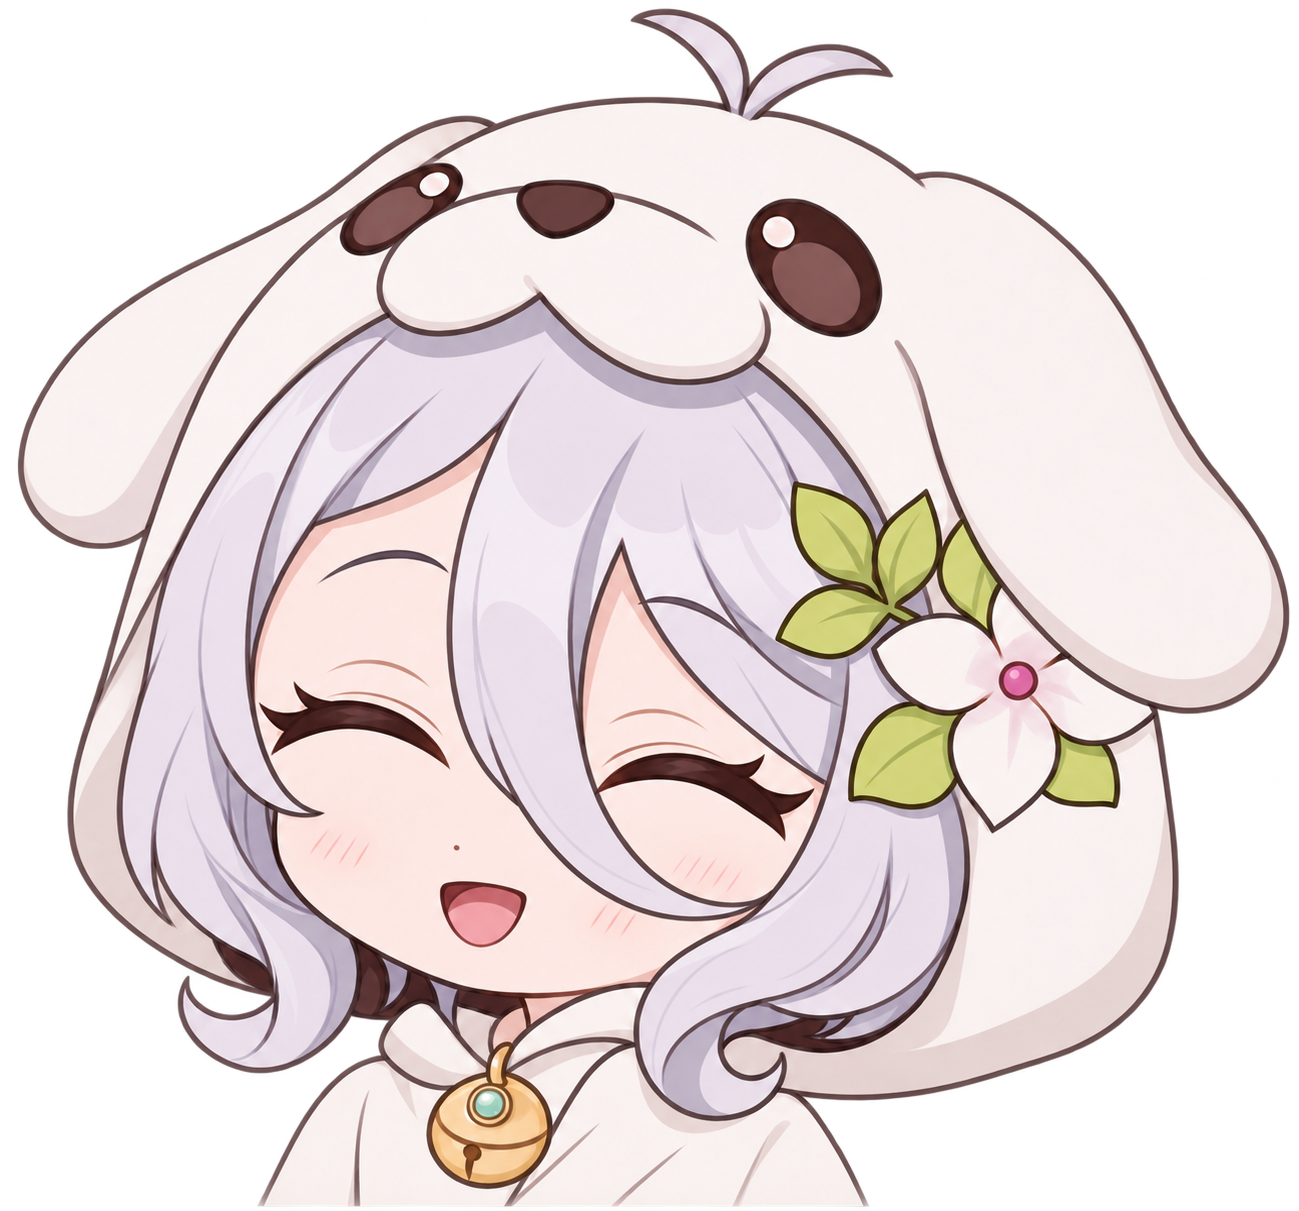
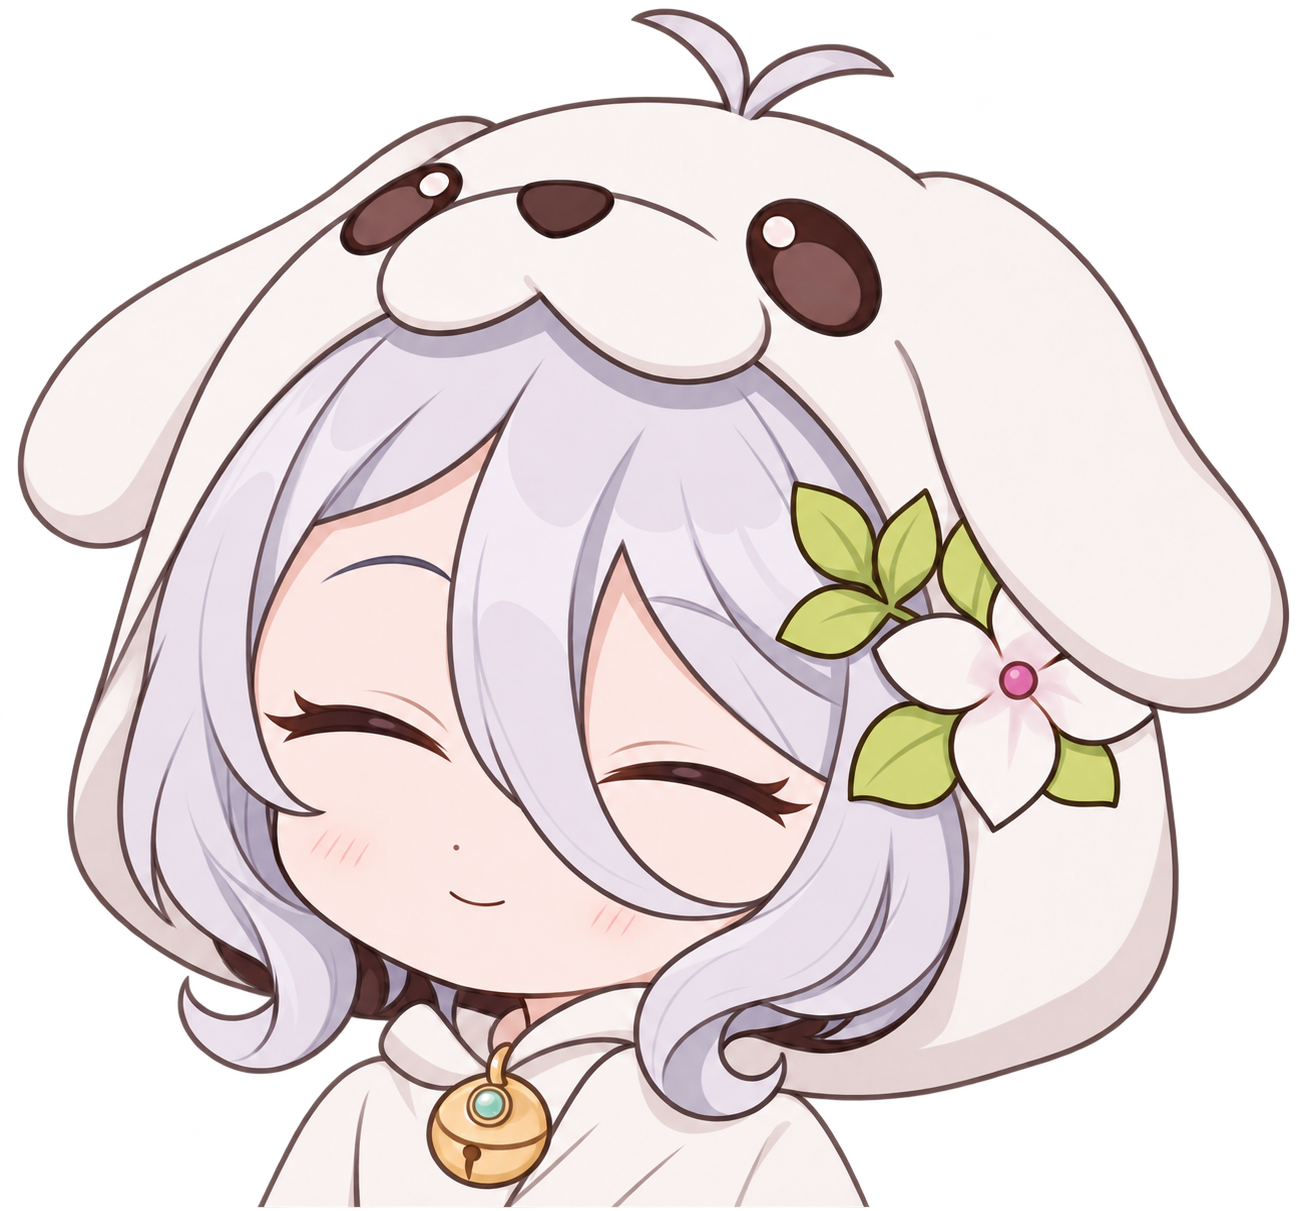
🔥 Fixed issue # 改善可可萝待机跟随和完成表情

diff --git a/src/renderer/kokkoro-face.js b/src/renderer/kokkoro-face.js
@@ -1,30 +1,29 @@
 import { KOKKORO_ASSET } from '../shared/characters.js';
 import { createKokkoroEyes, KOKKORO_EYE_ARTWORK } from './kokkoro-eyes.js';
 import { KOKKORO_FACE_BOUNDS, loadKokkoroFrames } from './kokkoro-expressions.js';
+import { KokkoroMotion } from './kokkoro-motion.js';
 
-// 轻弹或惊一下只发生在动作开头，定格等待恢复时不持续绘制。
-const ACTIONS = {
-  happy: { duration: 2200, moveFor: 540, scale: 0.024 },
-  sad: { duration: 3200, moveFor: 420, scale: -0.019 },
-};
+// 表情定格与身体节奏各自计时，动作结束后恢复视线和眨眼。
+const ACTIONS = { happy: 2200, sad: 3200 };
 
 export class KokkoroFace {
   // 只有切到可可萝才创建画布、解码表情帧和建立视线标定。
   constructor(character, onPose) {
     this.character = character;
-    this.onPose = onPose;
-    this.scaleY = 1;
-    this.motionFrame = 0;
+    this.motion = new KokkoroMotion(onPose);
     this.timer = 0;
+  }
+
+  // 原画、眼部和命中图一起使用这个姿态。
+  get pose() {
+    return this.motion.pose;
   }
 
   // 换角色、隐藏、拖动和关闭动态表情时取消动作和排队中的请求。
   configure(image, model, pose, reducedMotion, pressed) {
     if (model.asset !== KOKKORO_ASSET && this.view?.model.asset !== KOKKORO_ASSET) return;
-    const hadMotion = this.motion;
     const settings = model.appearance?.settings || {};
     this.view = { image, model, pose, reducedMotion, pressed };
-    this.motion = !reducedMotion && settings.motion !== false;
     const visible = model.asset === KOKKORO_ASSET && model.visible !== false && !document.hidden && !pressed;
     this.allowed = visible && settings.expressionsEnabled !== false;
     this.ready = visible && image.src === KOKKORO_ASSET
@@ -33,13 +32,13 @@ export class KokkoroFace {
       this.pending = null;
       this.stop();
     }
+    this.motion.configure(model, pose, this.ready && !reducedMotion && settings.motion !== false);
     if (!this.ready) {
       if (this.eyes?.enabled) this.eyes.reset();
       return;
     }
     if (!this.loading) this.prepareFrames();
     if (!this.action) this.syncEyes();
-    else if (hadMotion !== this.motion) this.move(performance.now());
   }
 
   // 表情加载完成时只接续当前角色的最后一次触发，切走或隐藏时直接丢弃。
@@ -59,6 +58,7 @@ export class KokkoroFace {
   follow(point) {
     this.point = point;
     this.eyes?.follow(point);
+    this.motion.follow(point);
   }
 
   // 眨眼和视线各用已有的偏好开关，在表情帧加载完成前先提供正常的视线。
@@ -123,53 +123,31 @@ export class KokkoroFace {
     this.eyes?.reset();
     clearTimeout(this.timer);
     this.action = name;
-    this.started = performance.now();
+    this.motion.setAction(name);
     this.character.dataset.kokkoroExpression = name;
     this.showFrame(name);
-    this.move(this.started);
     this.timer = setTimeout(() => {
       this.stop();
       this.syncEyes();
-    }, ACTIONS[name].duration);
-  }
-
-  // 以平切底边为锚点轻弹或缩身，命中与画面共用缩放比例。
-  move(time) {
-    cancelAnimationFrame(this.motionFrame);
-    this.motionFrame = 0;
-    const { moveFor, scale } = ACTIONS[this.action];
-    const progress = Math.max(0, (time - this.started) / moveFor);
-    if (!this.motion || progress >= 1) {
-      this.setScale(1);
-      return;
-    }
-    this.setScale(1 + scale * Math.sin(Math.PI * progress) ** 2);
-    this.motionFrame = requestAnimationFrame((next) => this.move(next));
-  }
-
-  // 姿势真正变化时才刷新原画容器与透明命中。
-  setScale(scale) {
-    if (this.scaleY === scale) return;
-    this.scaleY = scale;
-    this.onPose();
+    }, ACTIONS[name]);
   }
 
   // 完成、隐藏或换角色时清掉定格和动作时钟，露出原画。
   stop() {
     if (!this.action) return;
     clearTimeout(this.timer);
-    cancelAnimationFrame(this.motionFrame);
-    this.timer = this.motionFrame = 0;
+    this.timer = 0;
     this.action = null;
+    this.motion.setAction(null);
     this.showFrame(null);
     delete this.character.dataset.kokkoroExpression;
-    this.setScale(1);
   }
 
   // 页面关闭时清理动作、眨眼、视线和缓存。
   destroy() {
     this.destroyed = true;
     this.stop();
+    this.motion.reset();
     this.pending = null;
     this.eyes?.reset();
     for (const patch of this.eyes?.patches || []) patch.canvas.remove();

diff --git a/src/renderer/kokkoro-motion.js b/src/renderer/kokkoro-motion.js
@@ -1,0 +1,90 @@
+import { gazeTarget, stepGaze } from '../shared/gaze.js';
+import { KOKKORO_EYE_ARTWORK } from './kokkoro-eyes.js';
+
+const CENTER = { x: 0, y: 0 };
+const REST = { translateX: 0, translateY: 0, angle: 0, scaleY: 1 };
+
+// 完成时以底边为锚点轻轻点头，失败沿用原来的短促缩身。
+const GESTURES = {
+  happy: { duration: 760, depth: 0.036 },
+  sad: { duration: 420, depth: 0.019 },
+};
+
+export class KokkoroMotion {
+  // 只更新角色容器姿态，帽子、身体与当前表情在同一次变换里移动。
+  constructor(onPose) {
+    this.onPose = onPose;
+    this.pose = REST;
+    this.lean = CENTER;
+    this.frame = 0;
+    this.tick = this.tick.bind(this);
+  }
+
+  // 拖动、隐藏或关闭动画时回到中性姿势，重新显示时从自然起点继续。
+  configure(model, gesture, enabled) {
+    this.rect = model.rect;
+    this.gesture = gesture;
+    this.track = model.appearance?.settings?.eyeTracking !== false;
+    if (!enabled) {
+      this.reset();
+      return;
+    }
+    this.updateTarget();
+    if (this.frame) return;
+    this.idleStarted = this.lastFrame = performance.now();
+    this.frame = requestAnimationFrame(this.tick);
+  }
+
+  // 主进程传入窗口外的光标位置，光标停下时身体仍有轻微的起伏。
+  follow(point) {
+    this.point = point;
+    if (this.frame) this.updateTarget();
+  }
+
+  // 以未摆动的锚点计算目标，翻转后肩膀依旧朝屏幕上的鼠标方向靠过去。
+  updateTarget() {
+    const aim = this.track ? gazeTarget(this.point, this.rect, this.gesture, KOKKORO_EYE_ARTWORK) : CENTER;
+    this.target = { x: aim.x * Math.sign(this.gesture.scaleX), y: aim.y };
+  }
+
+  // 动作与待机共用姿态，点头或缩身结束后直接接回原来的轻摆。
+  setAction(name) {
+    this.gestureAction = GESTURES[name];
+    this.actionStarted = performance.now();
+  }
+
+  // 身体比眼睛稍慢跟上。约六秒的左右轻摆叠加错开的呼吸节奏。
+  tick(time) {
+    const delta = time - this.lastFrame;
+    if (delta >= 25) {
+      this.lastFrame = time;
+      this.lean = stepGaze(this.lean, this.target, delta / 1000, 0.24);
+      const { x, y } = this.lean;
+      const elapsed = (time - this.idleStarted) / 1000;
+      const sway = Math.sin(elapsed * 2 * Math.PI / 5.8);
+      const breath = (1 - Math.cos(elapsed * 2 * Math.PI / 4.6)) / 2;
+      const drift = Math.sin(elapsed * 2 * Math.PI / 9.3);
+      const action = this.gestureAction;
+      const progress = action ? Math.min(1, Math.max(0, (time - this.actionStarted) / action.duration)) : 1;
+      const nod = action ? action.depth * Math.sin(Math.PI * progress) ** 2 : 0;
+      this.pose = {
+        translateX: this.rect.width * (0.012 * x + 0.004 * sway),
+        translateY: this.rect.height * 0.0035 * y,
+        angle: 2.6 * x + (0.86 * sway + 0.14 * drift) * (1 - Math.abs(x) * 0.24),
+        scaleY: 1 + 0.012 * breath - 0.010 * y - nod,
+      };
+      this.onPose();
+    }
+    this.frame = requestAnimationFrame(this.tick);
+  }
+
+  // 停帧后把透明命中和画面一起恢复到原始位置。
+  reset() {
+    cancelAnimationFrame(this.frame);
+    this.frame = 0;
+    this.lean = CENTER;
+    if (this.pose === REST) return;
+    this.pose = REST;
+    this.onPose();
+  }
+}

diff --git a/src/renderer/character.js b/src/renderer/character.js
@@ -306,12 +306,15 @@ function applyLayout(model) {
 function paintCharacter() {
   if (!layout) return;
   dragonFaces.updateMotion(decodedPortrait, dragonMotion, layout.rect);
+  // 可可萝的头身轻摆、眼区与透明点击区域共用同一变换。
+  const sway = kokkoro.pose;
   renderedPose = {
     ...pose, ...bodyPose,
-    translateY: bodyPose.translateY - layout.rect.height * dragonMotion.breath,
-    angle: pose.angle + bodyPose.angle,
+    translateX: bodyPose.translateX + sway.translateX,
+    translateY: bodyPose.translateY + sway.translateY - layout.rect.height * dragonMotion.breath,
+    angle: pose.angle + bodyPose.angle + sway.angle,
     scaleX: pose.scaleX * flip.value,
-    scaleY: pose.scaleY * kokkoro.scaleY,
+    scaleY: pose.scaleY * sway.scaleY,
   };
   const flipping = String(!flip.settled);
   if (character.dataset.flipping !== flipping) character.dataset.flipping = flipping;

diff --git a/README.md b/README.md
@@ -20,7 +20,7 @@
 - **桌面陪伴**：透明背景、鼠标穿透、拖动吸附、缩放、翻转、自定义角色图片与轻点互动。
 - **角色切换**：首次安装默认龙娘。点击龙娘发饰，或通过右键 / 托盘「切换角色」、偏好设置的「内置角色」选择龙娘、麻吕或可可萝；升级保留已选角色。
 - **麻吕互动**：待机睁眼、无口，双颊带红晕，会自然眨眼并小幅看向鼠标；轻点和任务完成时闭眼，失败时显示创可贴表情。待机偶尔播放约五秒的慢速捋发，低头、单眼偷瞄后缓缓恢复；30 帧使用 1254×1254 透明原图，配色、尺寸和身体位置统一。工作时可通过「动作 → 捋头发」手动播放。
-- **可可萝互动**使用透明半身立绘。主任务完成时闭眼微笑，失败时瞪圆眼睛露出震惊脸。两个表情都可从「动作」菜单预览，也会自动回到待机。
+- **可可萝互动**使用透明半身立绘，待机时缓慢轻摆，眼睛先看向鼠标，头身再稍稍倾过去。主任务完成时闭口浅笑并轻轻点头，失败时瞪圆眼睛露出震惊脸。两个表情都可从「动作」菜单预览。
 - **自动朝向**：拖到左半边松手后默认用约 0.3 秒平滑镜像，右半边松手后恢复。跟随模式按宿主窗口左右判断，独立桌面按所在屏幕判断；可在「偏好设置 → 外观 → 自动朝向」关闭，并保留手动翻转。关闭动画反馈或系统减少动态效果时直接切换。
 - **视线与眨眼**：龙娘、麻吕和可可萝的眼睛跟随全屏鼠标；静止时也会不定时轻眨双眼，快速闭合、稍慢睁开。龙娘会轻轻呼吸，轻戳时耳尖和发梢会回弹。「偏好设置 → 外观」中的「眼睛跟随」与「自然眨眼」可分别开关，「动画反馈」可关闭身体配合、呼吸和回弹。隐藏、拖动时暂停眨眼；自定义图片保持原样，系统减少动态效果时暂停联动。
 - **开心星光**：轻点默认角色或主任务完成时，紫色虹膜内的星芒和柔光会缓慢漂移、明暗变化，配合一次轻弹，约两秒后恢复。保留原来的无口造型；拖动、取消和错误任务不会触发，静音时仍可显示，可在「偏好设置 → 外观 → 动态表情」关闭。
